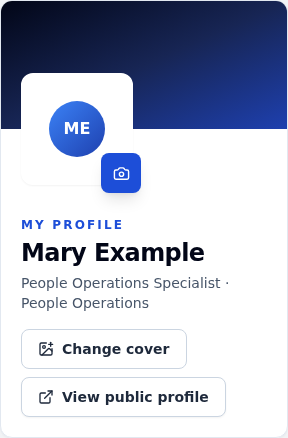
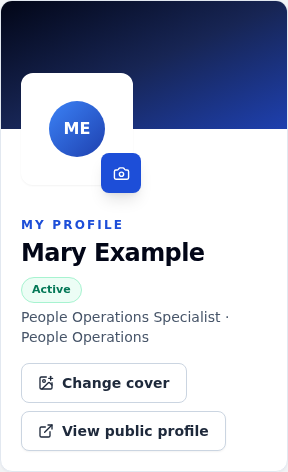
test(profile): validate header layout and zoom in browser CI

diff --git a/frontend/e2e/profile-header/zoom.spec.js b/frontend/e2e/profile-header/zoom.spec.js
@@ -5,6 +5,12 @@ import { join } from 'node:path';
 import { mockProfile } from './fixtures.js';
 import { verify } from './geometry.js';
 
+const baseURL = new URL(process.env.E2E_BASE_URL || 'http://localhost:5193');
+if (!['localhost', '127.0.0.1'].includes(baseURL.hostname)) {
+  throw new Error('Profile zoom tests require a disposable loopback server');
+}
+const tabPattern = `${baseURL.origin}/*`;
+
 for (const scale of [1.25, 1.5, 2]) {
   test(`native Chromium tab zoom ${scale * 100}% keeps both profile headers below their covers`, async () => {
     // A temporary local-only extension invokes native browser zoom, not CSS zoom,
@@ -12,7 +18,7 @@ for (const scale of [1.25, 1.5, 2]) {
     const root = mkdtempSync(join(tmpdir(), 'profile-zoom-'));
     const extension = join(root, 'extension');
     mkdirSync(extension);
-    writeFileSync(join(extension, 'manifest.json'), JSON.stringify({ manifest_version: 3, name: 'Local profile zoom check', version: '1.0', permissions: ['tabs'], host_permissions: ['http://localhost:5193/*'], background: { service_worker: 'background.js' } }));
+    writeFileSync(join(extension, 'manifest.json'), JSON.stringify({ manifest_version: 3, name: 'Local profile zoom check', version: '1.0', permissions: ['tabs'], host_permissions: [tabPattern], background: { service_worker: 'background.js' } }));
     writeFileSync(join(extension, 'background.js'), 'chrome.runtime.onInstalled.addListener(() => {});');
     let context;
     try {
@@ -24,18 +30,18 @@ for (const scale of [1.25, 1.5, 2]) {
       const page = await context.newPage();
       await mockProfile(page, { full_name: 'Mary Example with a long family name for zoom testing', job_title: 'Senior People Operations and Organizational Development Specialist' });
       for (const path of ['/employees/synthetic-person', '/profile']) {
-        await page.goto(`http://localhost:5193${path}`);
-        await worker.evaluate(async () => {
-          const [tab] = await chrome.tabs.query({ url: 'http://localhost:5193/*' });
+        await page.goto(`${baseURL.origin}${path}`);
+        await worker.evaluate(async (pattern) => {
+          const [tab] = await chrome.tabs.query({ url: pattern });
           await chrome.tabs.setZoom(tab.id, 1);
-        });
+        }, tabPattern);
         await expect.poll(() => page.evaluate(() => devicePixelRatio)).toBe(1);
         const normalWidth = await page.evaluate(() => innerWidth);
-        const applied = await worker.evaluate(async (zoom) => {
-          const [tab] = await chrome.tabs.query({ url: 'http://localhost:5193/*' });
+        const applied = await worker.evaluate(async ({ zoom, pattern }) => {
+          const [tab] = await chrome.tabs.query({ url: pattern });
           await chrome.tabs.setZoom(tab.id, zoom);
           return chrome.tabs.getZoom(tab.id);
-        }, scale);
+        }, { zoom: scale, pattern: tabPattern });
         expect(applied).toBe(scale);
         await expect.poll(() => page.evaluate(() => devicePixelRatio)).toBe(scale);
         expect(Math.abs(await page.evaluate(() => innerWidth) - normalWidth / scale)).toBeLessThanOrEqual(2);

diff --git a/frontend/src/pages/MyProfile.jsx b/frontend/src/pages/MyProfile.jsx
@@ -13,6 +13,7 @@ import { Link } from 'react-router-dom';
 import { employeeHomeApi } from '../api/employeeHomeApi.js';
 import Alert from '../components/ui/Alert.jsx';
 import Avatar from '../components/ui/Avatar.jsx';
+import Badge from '../components/ui/Badge.jsx';
 import Button from '../components/ui/Button.jsx';
 import Card from '../components/ui/Card.jsx';
 import Input from '../components/ui/Input.jsx';
@@ -172,6 +173,11 @@ export default function MyProfile() {
         </>}
         eyebrow="My profile"
         name={viewer.full_name}
+        status={viewer.employment_status ? (
+          <Badge tone={{ active: 'green', probation: 'amber', terminated: 'red' }[viewer.employment_status] || 'slate'}>
+            {viewer.employment_status}
+          </Badge>
+        ) : null}
         subtitle={<>{viewer.job_title || 'Employee'}{viewer.department_name ? ` · ${viewer.department_name}` : ''}</>}
         actions={<>
           <label className="relative inline-flex min-h-10 cursor-pointer items-center rounded-lg border border-slate-300 bg-white px-4 py-2 text-sm font-semibold text-slate-800 transition hover:bg-slate-50 focus-within:ring-4 focus-within:ring-blue-200">

diff --git a/frontend/e2e/profile-header/layout.spec.js b/frontend/e2e/profile-header/layout.spec.js
@@ -24,6 +24,7 @@ for (const path of ['/employees/synthetic-person', '/profile']) {
         await mockProfile(page, variant.data, variant.readOnly, variant.tenantCover);
         await page.goto(path);
         const header = await verify(page);
+        await expect(header.locator('[data-profile-identity]').getByText(variant.data.employment_status || 'active', { exact: true })).toBeVisible();
         if (path.startsWith('/employees')) {
           await expect(header.getByRole('button', { name: 'Edit employee' })).toHaveCount(variant.readOnly ? 0 : 1);
           await expect(header.getByRole('button', { name: 'Provision access' })).toHaveCount(variant.readOnly ? 0 : 1);

diff --git a/frontend/src/tests/MyProfile.test.jsx b/frontend/src/tests/MyProfile.test.jsx
@@ -21,6 +21,7 @@ const viewer = {
   email: 'amina@example.test',
   phone: '',
   job_title: 'Operations Analyst',
+  employment_status: 'active',
   department_name: 'Operations',
   work_location: 'Nairobi',
   preferred_name: '',
@@ -53,6 +54,8 @@ describe('MyProfile', () => {
 
     expect(await screen.findByRole('heading', { name: 'Amina Otieno' }))
       .toBeInTheDocument();
+
+    expect(screen.getByText('active').closest('[data-profile-identity]')).not.toBeNull();
 
     fireEvent.change(screen.getByLabelText('Preferred name'), {
       target: { value: 'Mina' },

diff --git a/frontend/e2e/profile-header.config.js b/frontend/e2e/profile-header.config.js
@@ -3,7 +3,7 @@ export default defineConfig({
   testDir: './profile-header',
   workers: 1,
   timeout: 90000,
-  use: { baseURL: 'http://localhost:5193', trace: 'off' },
+  use: { baseURL: process.env.E2E_BASE_URL || 'http://localhost:5193', trace: 'off' },
   outputDir: '/tmp/hrmis-profile-header-results',
   reporter: 'list',
 });

diff --git a/docs/employee-profile-header-layout-fix.md b/docs/employee-profile-header-layout-fix.md
@@ -51,7 +51,7 @@ The native-zoom tests use a temporary local-only Chromium extension to call the 
 
 ## Release boundary
 
-No code was pushed, merged or deployed. No production employee records, tenant settings, database schema, backend code or infrastructure was changed. Existing IDE modifications and PR #78 remain untouched. Additional recurring infrastructure cost: **$0/month**. Reverting the frontend changes restores the prior layout without any data or schema rollback.
+At the 13 November implementation checkpoint, no code was pushed, merged or deployed. No production employee records, tenant settings, database schema, backend code or infrastructure was changed. Existing IDE modifications and PR #78 remain untouched. Additional recurring infrastructure cost: **$0/month**. Reverting the frontend changes restores the prior layout without any data or schema rollback.
 
 
 ## Final validation and screenshots
@@ -72,3 +72,14 @@ No code was pushed, merged or deployed. No production employee records, tenant s
 Modified application paths: `frontend/src/components/employees/ProfileHeader.jsx`, its scoped `ProfileHeader.css`, and `frontend/src/pages/{EmployeeDetails,MyProfile,EmployeeHome}.jsx`. Test changes: `frontend/src/tests/{ProfileHeader,MyProfile}.test.jsx`, `frontend/e2e/profile-header.config.js`, and `frontend/e2e/profile-header/{fixtures,geometry,layout.spec,zoom.spec}.js`. This report and the synthetic screenshots complete the review artifacts.
 
 The original reference screenshot was described in the task but not supplied as an image file; before/after evidence comes from the repository's actual UI. Visual and mocked interaction verification does not certify production authentication, backend storage writes, real-device touch behavior, Safari/iOS or a complete accessibility audit. No separate native localization behavior exists to certify. **Ready for review; publication and deployment require explicit approval.**
+
+
+## Publication preparation — 14 November 2026
+
+Main remains `36a52f2`; PR #78 is still open at `7ad2941`. A temporary `git merge-tree` combination with the header implementation found no conflicts and passed two synthetic browser journeys from the new org-chart details panel into EmployeeDetails at 390px and 1440px. This did not merge either branch or change the org-chart PR. Three native-zoom scenarios also passed against that combined tree.
+
+The existing Browser Acceptance workflow now runs the dedicated 23-test profile geometry/zoom suite after its normal acceptance suite, using the already configured `E2E_BASE_URL` and existing local CI server. No hosting service, production setting, dependency or recurring cost is added. The test extension remains restricted to loopback URLs. Remote results will be recorded in the pull request.
+
+The publication request explicitly requires status badges on both profiles. MyProfile now renders the existing `viewer.employment_status` field through the shared Badge component (active/probation/terminated colors match EmployeeDetails); absent status is omitted rather than fabricated. No backend or authorization change is involved. The browser matrix now explicitly requires the correct identity badge on both pages.
+
+Publication follow-up validation: all 25 combined-tree browser scenarios passed (23 header scenarios plus 2 org-chart navigation scenarios), along with three affected unit tests and ESLint. MyProfile screenshots were refreshed to include its status badge. These checks use synthetic API fixtures; no production records were accessed.
